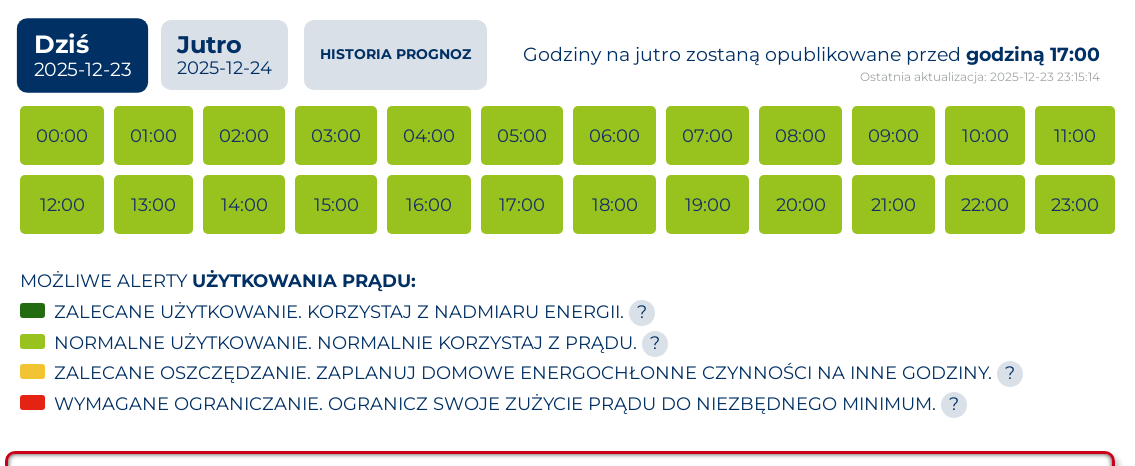
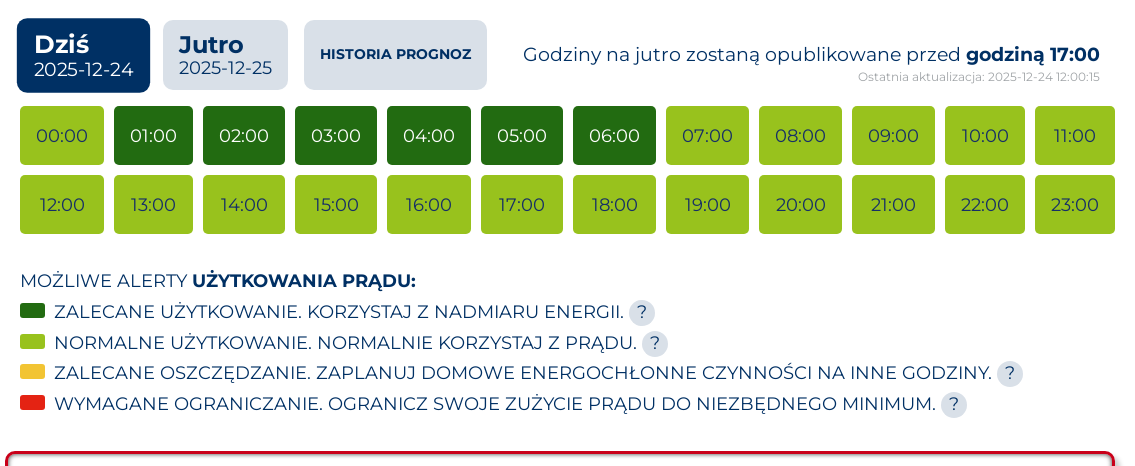
site: update 2025-12-24 12:00 UTC

Changed region(s): [[0.0925, 0.2103, 0.5859, 0.3605], [0.0925, 0.0601, 0.2467, 0.1803], [0.7401, 0.1502, 0.9868, 0.1803]]

diff --git a/site/html_03_g13_g14_porownanie.html b/site/html_03_g13_g14_porownanie.html
@@ -18,7 +18,7 @@
   </div>
 
   <section class="hero">
-    <div class="kicker">Ceny sprzedaży i zakupu energii oraz tryb SolaX (ostatni odczyt: 2025-12-24 12:45:00, strona wygenerowana 2025-12-24 12:45:28)</div>
+    <div class="kicker">Ceny sprzedaży i zakupu energii oraz tryb SolaX (ostatni odczyt: 2025-12-24 13:00:00, strona wygenerowana 2025-12-24 13:00:45)</div>
     <h1>Ceny energii i tryb SolaX</h1>
     <p>
       Taryfy Tauron:
@@ -44,15 +44,15 @@
       <tbody>
         <tr>
           <td>Cena sprzedaży energii (SELL)</td>
-          <td>0,295</td>
+          <td>0,358</td>
         </tr>
         <tr>
           <td>Cena zakupu energii w taryfie G13</td>
-          <td>0,900</td>
+          <td>0,690</td>
         </tr>
         <tr>
           <td>Cena zakupu energii w taryfie G14</td>
-          <td>0,405</td>
+          <td>0,468</td>
         </tr>
       </tbody>
     </table>
@@ -64,9 +64,9 @@
   <h2>Parametry sterujące falownikiem SolaX</h2>
   <p>
     Aktualny tryb/etykieta:
-    <strong>normal/b/g13</strong><br/>
+    <strong>charge/a/g13</strong><br/>
     Ostatni zestaw komend (surowy):<br/>
-    <code>141=10;144=90;71=160;342=160;150=2;151=258;152=0;153=15127;154=161</code>
+    <code>141=11;144=91;71=160;342=160;150=0;151=15127;152=2;153=258;154=161</code>
   </p>
 
   <div class="table-wrapper">
@@ -91,43 +91,43 @@
         <tr>
           <td>141</td>
           <td>soc_min</td>
-          <td>10</td>
-          <td>10 %</td>
+          <td>11</td>
+          <td>11 %</td>
           <td>Minimalny poziom naładowania baterii [%]</td>
         </tr>
         <tr>
           <td>144</td>
           <td>soc_target</td>
-          <td>90</td>
-          <td>90 %</td>
+          <td>91</td>
+          <td>91 %</td>
           <td>Docelowy poziom naładowania baterii [%]</td>
         </tr>
         <tr>
           <td>150</td>
           <td>charge_start_hhmm</td>
-          <td>2</td>
-          <td>02:00</td>
+          <td>0</td>
+          <td>00:00</td>
           <td>Start okna wymuszonego ładowania (HH:MM)</td>
         </tr>
         <tr>
           <td>151</td>
           <td>charge_end_hhmm</td>
-          <td>258</td>
-          <td>02:58</td>
+          <td>15127</td>
+          <td>kod 15127</td>
           <td>Koniec okna wymuszonego ładowania (HH:MM)</td>
         </tr>
         <tr>
           <td>152</td>
           <td>discharge_start_hhmm</td>
-          <td>0</td>
-          <td>00:00</td>
+          <td>2</td>
+          <td>02:00</td>
           <td>Start okna rozładowania (HH:MM)</td>
         </tr>
         <tr>
           <td>153</td>
           <td>discharge_end_hhmm</td>
-          <td>15127</td>
-          <td>kod 15127</td>
+          <td>258</td>
+          <td>02:58</td>
           <td>Koniec okna rozładowania (HH:MM)</td>
         </tr>
         <tr>

diff --git a/site/html_02_raport_ze_stanu_teraz.html b/site/html_02_raport_ze_stanu_teraz.html
@@ -18,7 +18,7 @@
   </div>
 
   <section class="hero">
-    <div class="kicker">Ostatni odczyt: 24.12.2025 12:45</div>
+    <div class="kicker">Ostatni odczyt: 24.12.2025 13:00</div>
     <h1>Raport ze stanu teraz</h1>
     <p>
       Taryfy Tauron:
@@ -42,7 +42,7 @@
       <tbody>
         <tr>
           <th style="width:40%;">Czas odczytu</th>
-          <td>24.12.2025 12:45</td>
+          <td>24.12.2025 13:00</td>
         </tr>
         <tr>
           <th>Położenie</th>
@@ -62,11 +62,11 @@
       <tbody>
         <tr>
           <th style="width:40%;">Produkcja PV dzisiaj [kWh]</th>
-          <td>0.20</td>
+          <td>0.30</td>
         </tr>
         <tr>
           <th>Zużycie energii dzisiaj [kWh]</th>
-          <td>6.20</td>
+          <td>6.40</td>
         </tr>
         <tr>
           <th>Energia pobrana z sieci dzisiaj [kWh]</th>
@@ -78,11 +78,11 @@
         </tr>
         <tr>
           <th>Zużycie z własnego systemu dzisiaj [kWh]</th>
-          <td>5.00</td>
+          <td>5.20</td>
         </tr>
         <tr>
           <th>Wyjście inwertera dzisiaj [kWh]</th>
-          <td>5.00</td>
+          <td>5.20</td>
         </tr>
       </tbody>
     </table>
@@ -94,23 +94,23 @@
       <tbody>
         <tr>
           <th style="width:40%;">Moc PV [W]</th>
-          <td>0</td>
+          <td>96</td>
         </tr>
         <tr>
           <th>Moc z PV do systemu [W]</th>
-          <td>0</td>
+          <td>96</td>
         </tr>
         <tr>
           <th>Moc do domu [W]</th>
-          <td>357</td>
+          <td>546</td>
         </tr>
         <tr>
           <th>Moc z / do sieci [W]</th>
-          <td>357</td>
+          <td>642</td>
         </tr>
         <tr>
           <th>Moc z / do baterii [W]</th>
-          <td>357</td>
+          <td>546</td>
         </tr>
       </tbody>
     </table>
@@ -150,7 +150,7 @@
         </tr>
         <tr>
           <th>Napięcie [V]</th>
-          <td>230.07</td>
+          <td>229.08</td>
         </tr>
         <tr>
           <th>Prąd [A]</th>

diff --git a/site/html_01_tabele_wykresy_g14_today_tomorrow.html b/site/html_01_tabele_wykresy_g14_today_tomorrow.html
@@ -140,7 +140,7 @@
 <section class="hero">
   <div class="kicker">Dane</div>
   <h1>Taryfa — dzisiaj i jutro</h1>
-  <p class="muted">Strona wygenerowana: 2025-12-24 00:15:29</p>
+  <p class="muted">Strona wygenerowana: 2025-12-24 13:00:29</p>
   <p class="muted">Dane (dzisiaj) — ostatnia próbka: 2025-12-24 23:45:00</p>
   <p class="muted">Dane (jutro) — ostatnia próbka: brak danych</p>
 </section>
